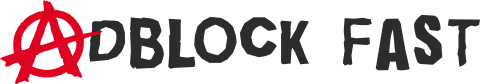
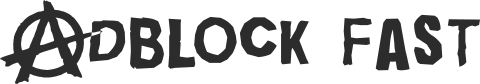
No more angry fruit salad.

Changed region(s): [[0.0, 0.0, 0.2188, 1.0]]

diff --git a/README.md b/README.md
@@ -1,4 +1,4 @@
-# ![Adblock Fast](assets/promo/adblockfast.png) [![Tweet](assets/promo/tweet-optimized.png)](https://twitter.com/intent/tweet?text=Get%20a%20faster%20ad%20blocker%20for%20Windows,%20Android,%20iOS,%20Chrome,%20or%20Opera:&url=https://adblockfast.com/?ref=GitHub&via=adblockfast)
+# ![Adblock Fast](assets/promo/adblockfast-optimized.png) [![Tweet](assets/promo/tweet-optimized.png)](https://twitter.com/intent/tweet?text=Get%20a%20faster%20ad%20blocker%20for%20Windows,%20Android,%20iOS,%20Chrome,%20or%20Opera:&url=https://adblockfast.com/?ref=GitHub&via=adblockfast)
 
 [![Website](https://img.shields.io/uptimerobot/ratio/m782428162-02bf166026a72243440ef044.svg)](https://adblockfast.com/?ref=GitHub) [![iOS](https://img.shields.io/itunes/v/1032930802.svg)](https://itunes.apple.com/app/adblock-fast/id1032930802?at=1001lwfP) [![Chrome](https://img.shields.io/chrome-web-store/v/nneejgmhfoecfeoffakdnolopppbbkfi.svg)](https://chrome.google.com/webstore/detail/adblock-fast/nneejgmhfoecfeoffakdnolopppbbkfi)
 
